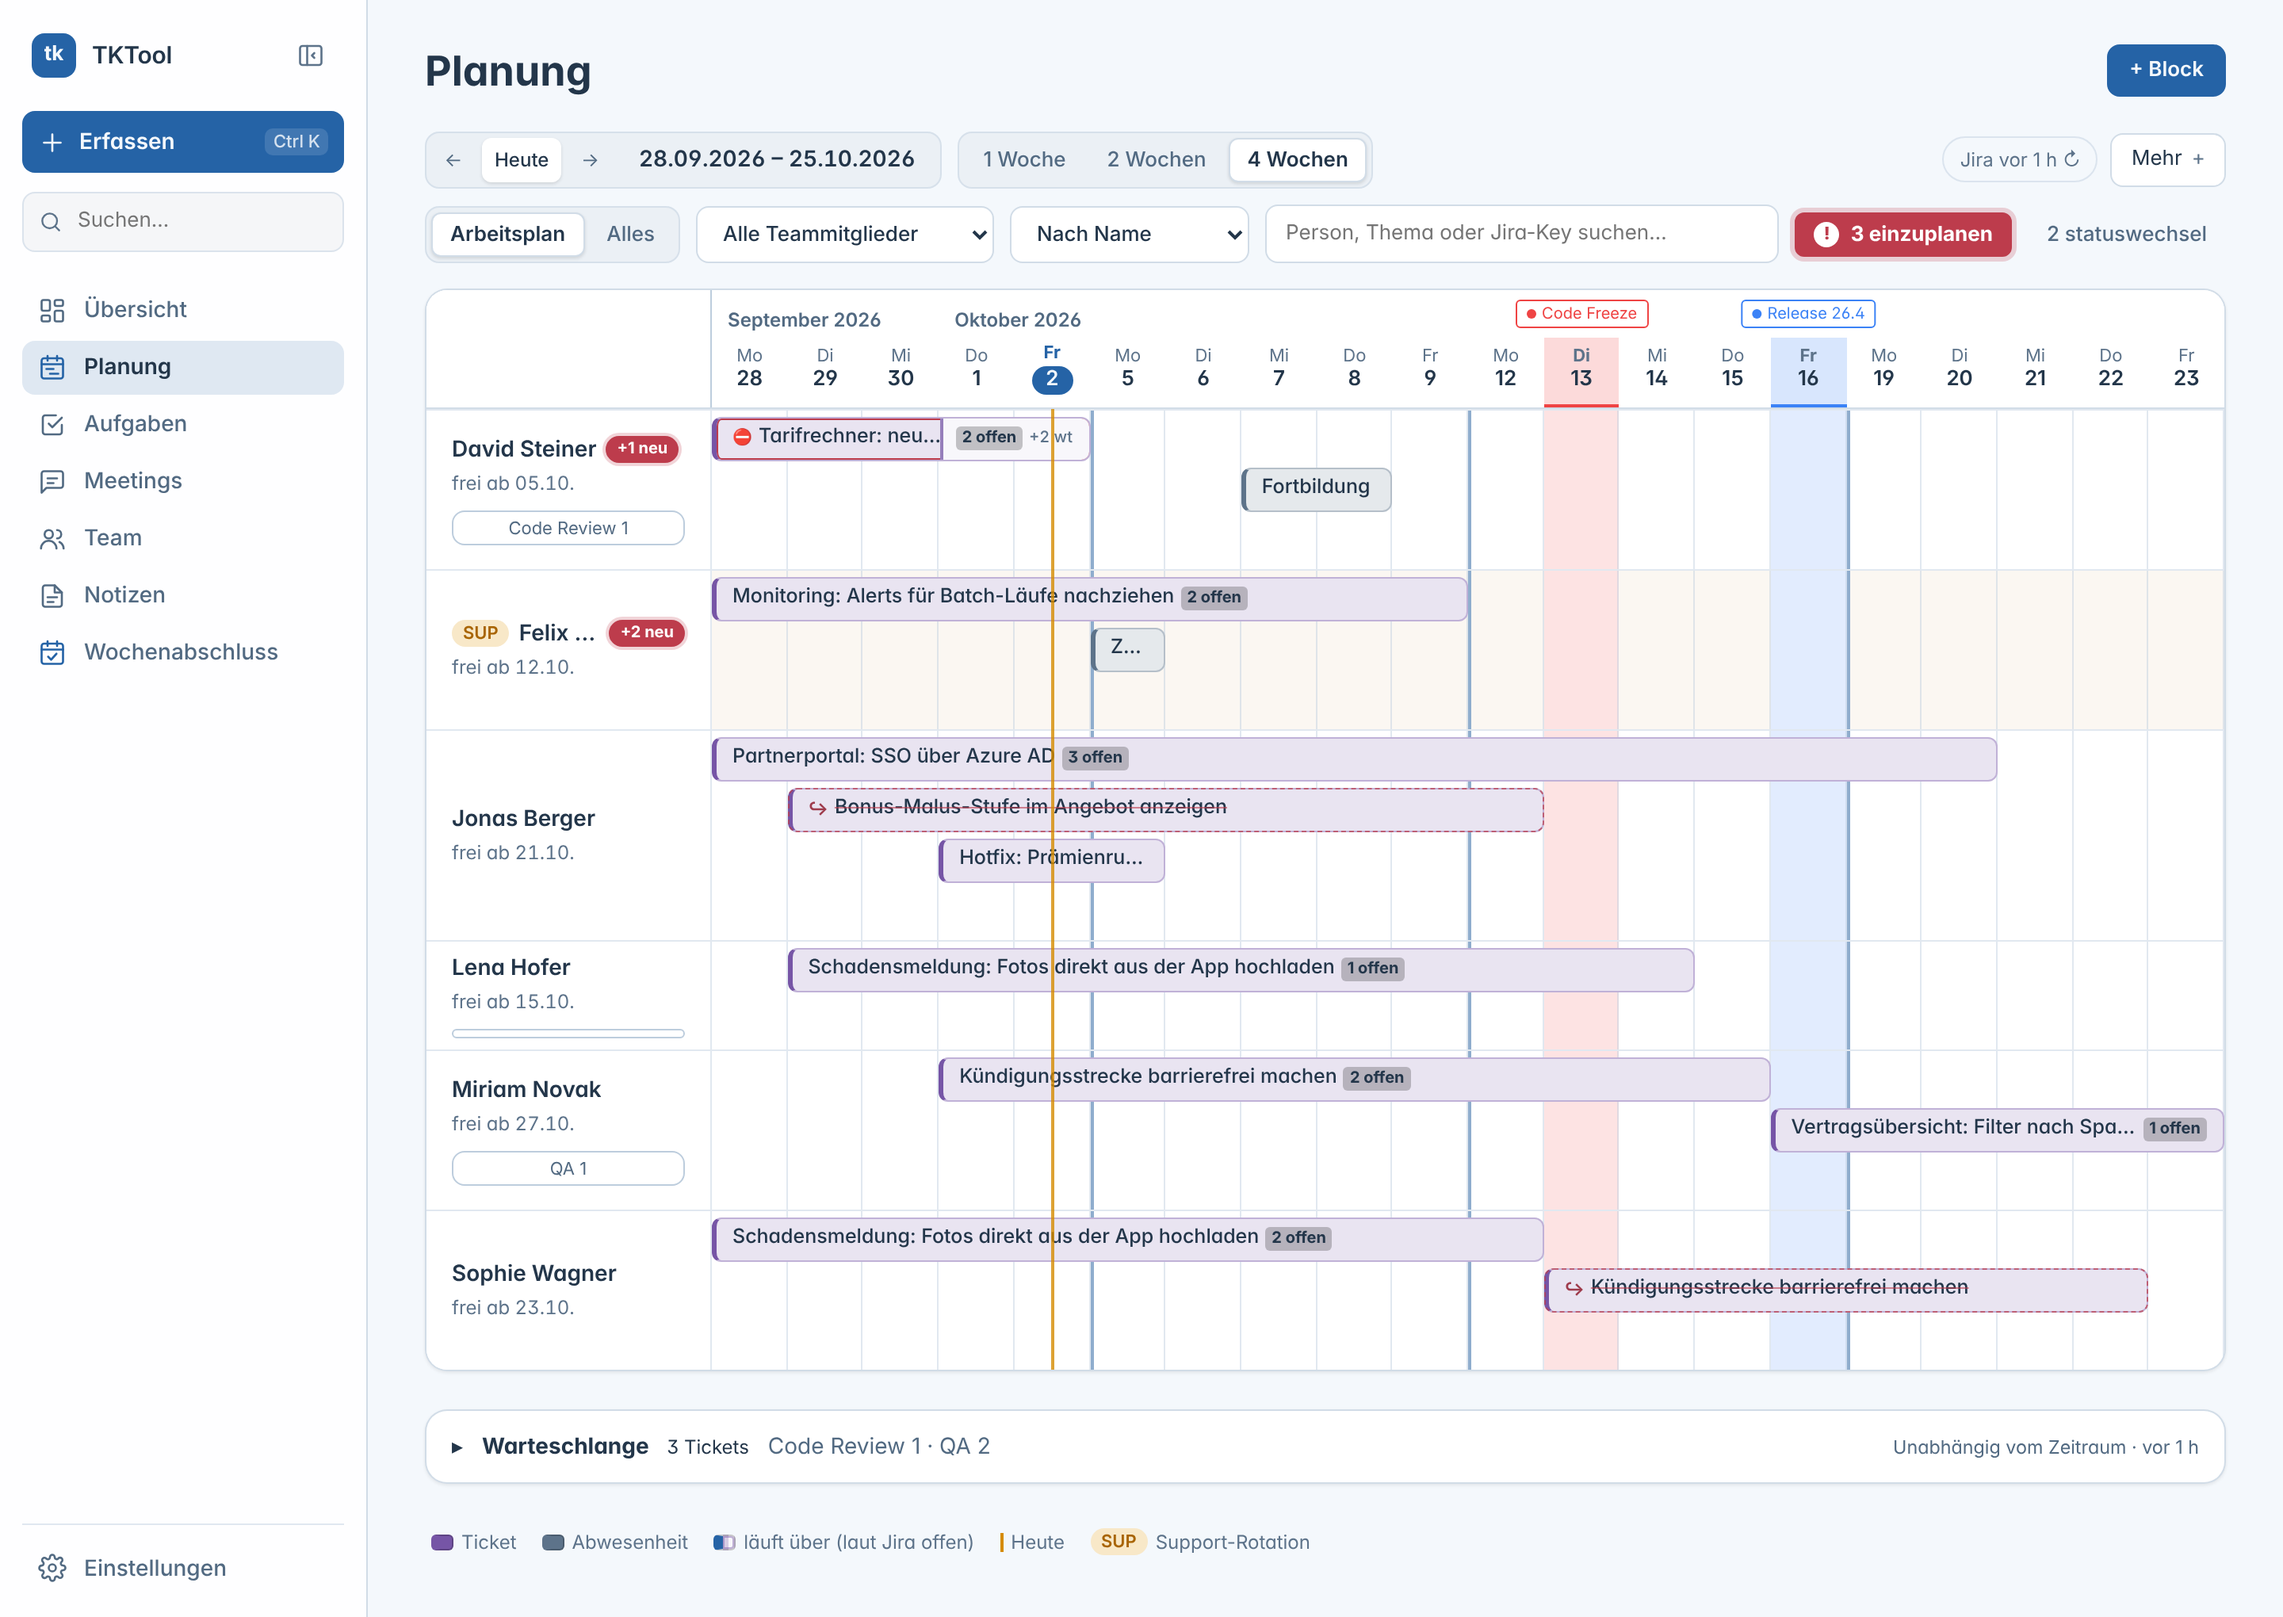
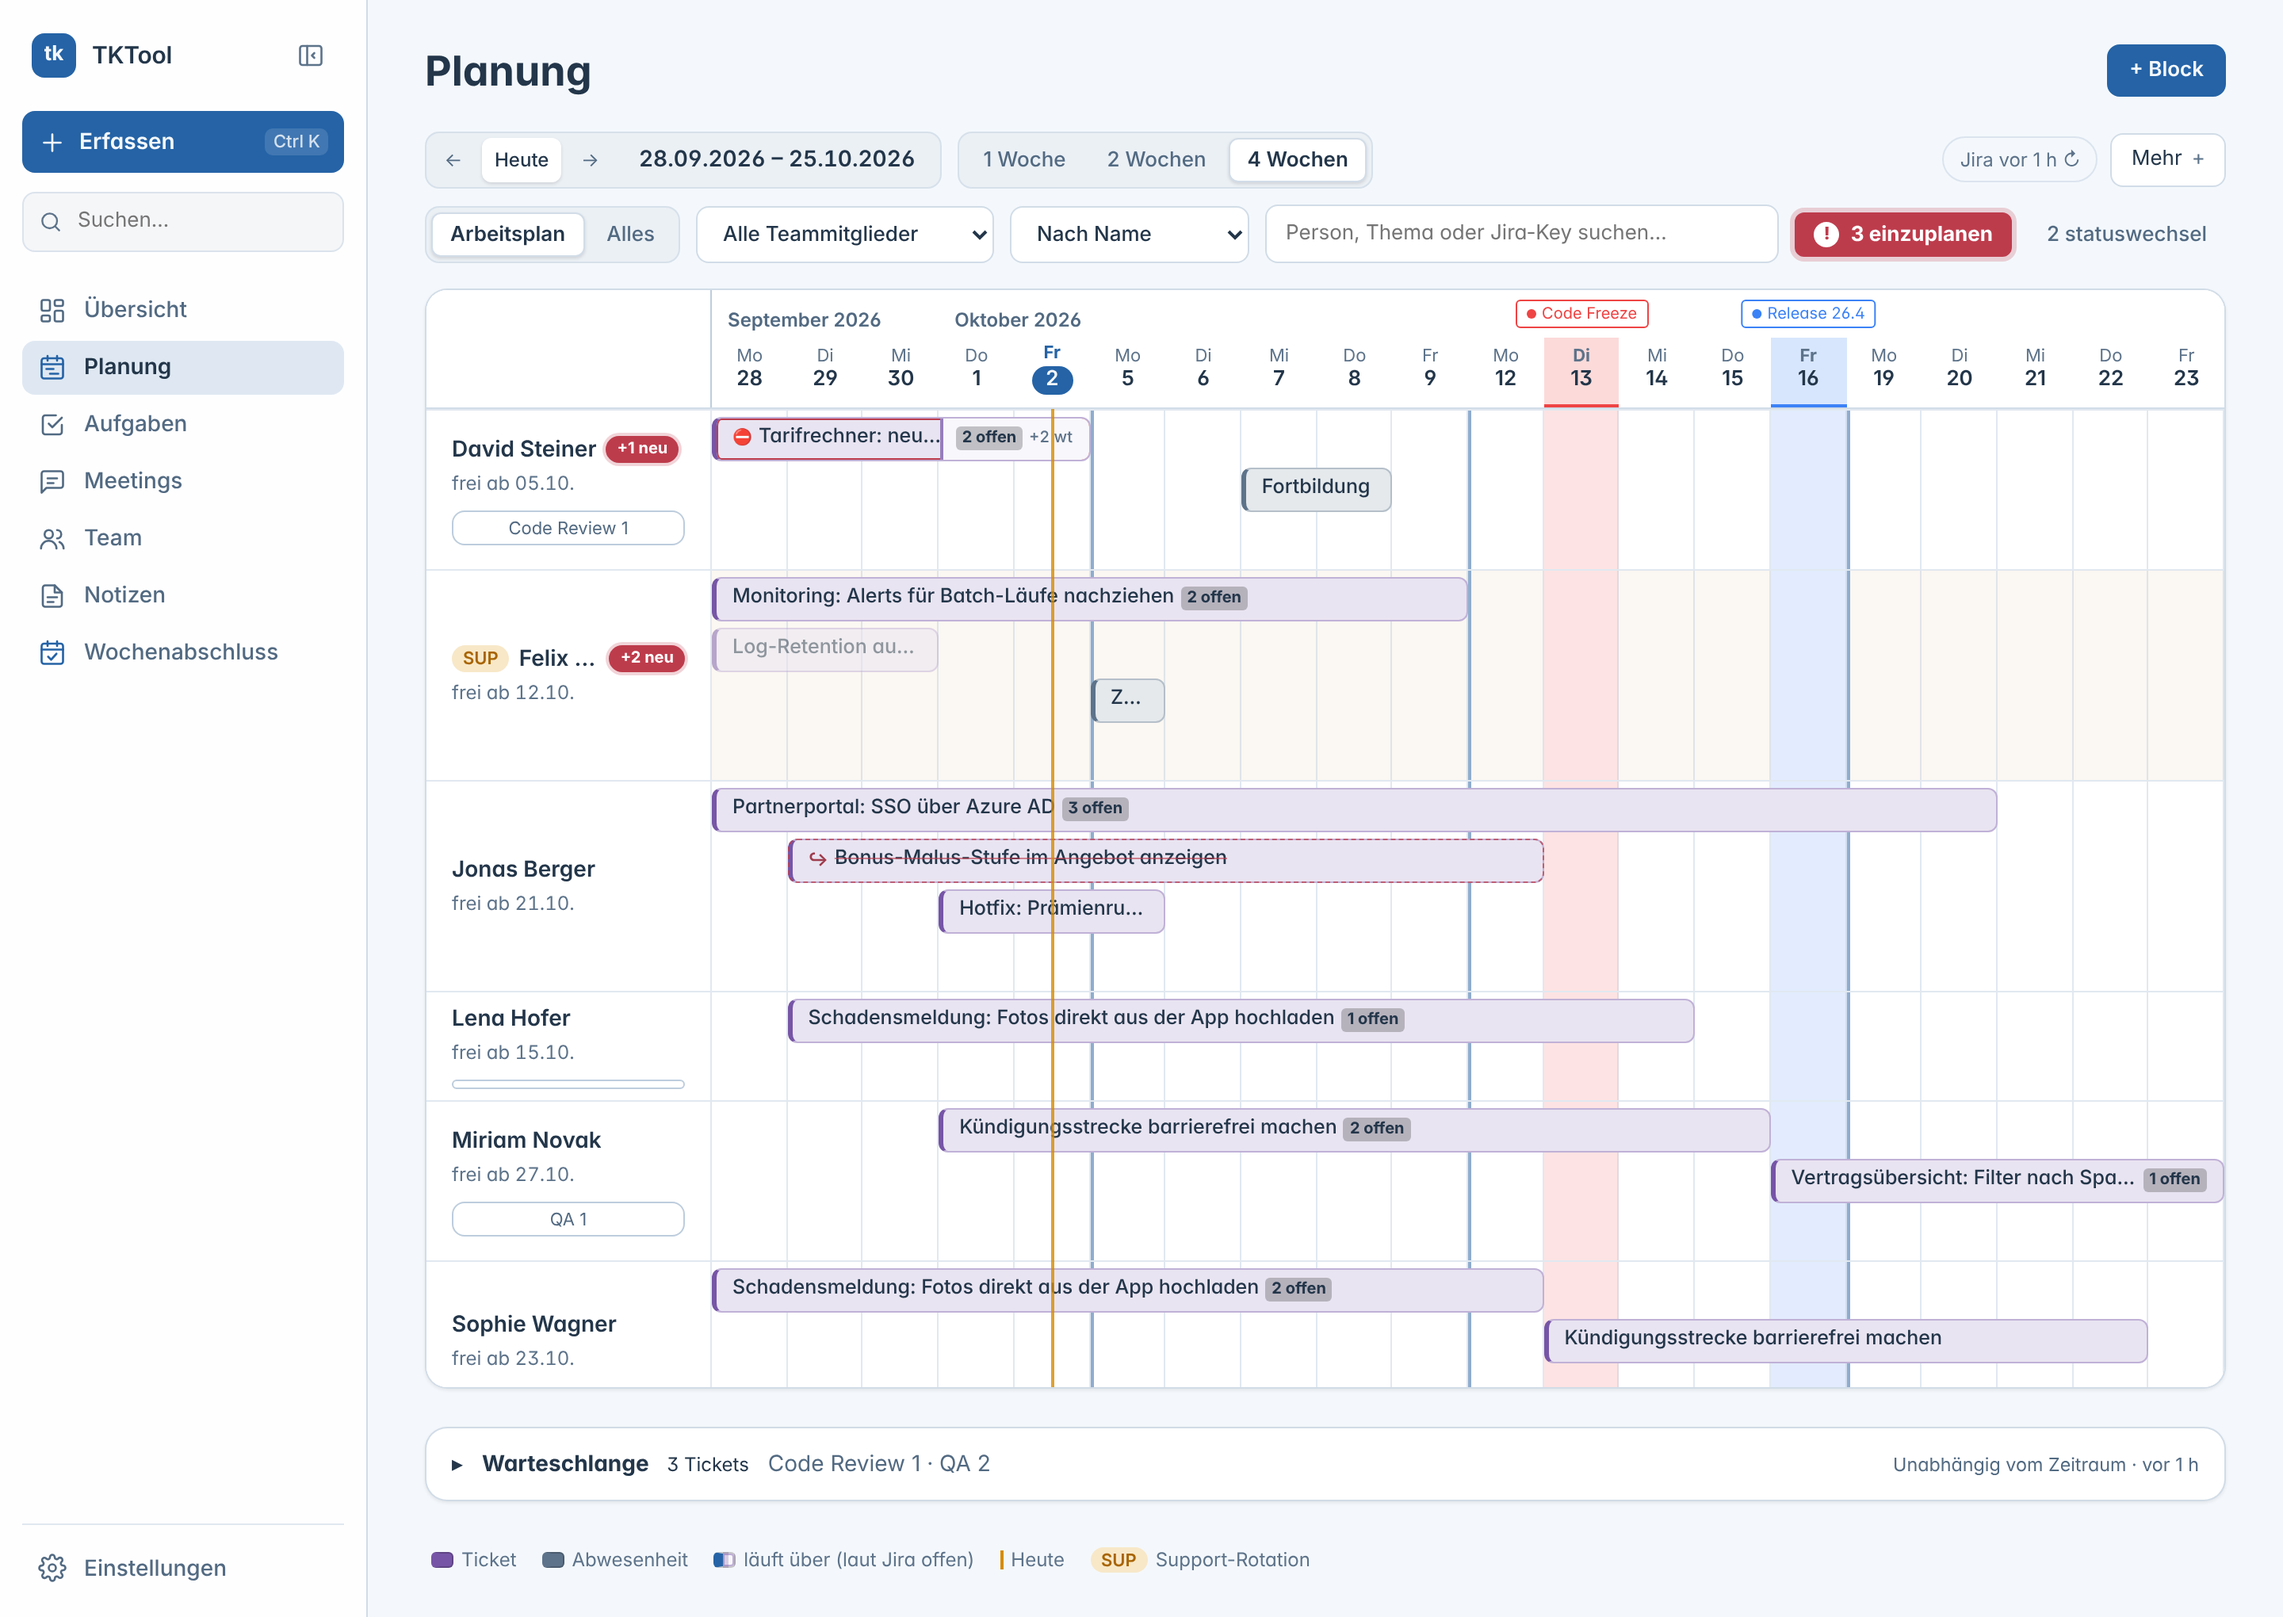
Planung: abgelaufene Blöcke zurücknehmen, Umgehängt nur für laufende
Abgelaufene Blöcke (Ende vor heute, nicht überzogen) werden in der
Planung halb transparent dargestellt. Die Markierung "nicht mehr
zugewiesen" gilt nur noch für Blöcke, die heute laufen: abgelaufene sind
vorbei, kommende sind vorausgeplant und das Ticket liegt oft noch beim
Lead.

Changed region(s): [[0.3125, 0.4015, 1.0, 0.9265], [0.1875, 0.4941, 0.5625, 0.9882], [0.1875, 0.3706, 0.375, 0.4324]]

diff --git a/TKTool.html b/TKTool.html
@@ -7887,6 +7887,11 @@ body[data-theme] .dashboard-sync:hover {
 .standup-block.is-waiting .standup-block-title { color: var(--text-secondary); font-weight: 500; }
 .standup-chip-waiting { border-style: dashed; color: var(--text-muted); }
 
+/* Planung: abgelaufene Bloecke treten zurueck, wie Erledigtes, nur ohne
+   Durchstreichen. Spezifisch genug, um den Uebergabe-Stil zu ueberstimmen. */
+.tl-block.tl-block-past { opacity: 0.5; }
+.tl-block.tl-block-past:hover { opacity: 0.85; }
+
 </style>
 <style data-source="./themes/dark.css">
 body[data-theme="dark"],
@@ -9422,7 +9427,7 @@ body[data-theme="spaceship"] input[type="month"]::-webkit-calendar-picker-indica
 // ============================================================
 // DATA LAYER — File System Access API
 // ============================================================
-const APP_VERSION = '1.0.88';
+const APP_VERSION = '1.0.89';
 const DATA_FILENAME = 'tktool-data.json';
 const JIRA_SYNC_FILENAME = 'jira-tickets.json';
 const JIRA_QUERY_MAX_RESULTS = 100;
@@ -17918,11 +17923,16 @@ function blockWaitingStatus(b) {
 // Bewusst vorsichtig, damit vorausgeplante Bloecke nicht rot werden:
 //  - ohne Snapshot, ohne Account-ID oder unbekanntem Key keine Aussage
 //  - erledigt oder in Uebergabe (QA) ist "wartet", nicht "weg"
-//  - niemandem zugewiesen zaehlt erst, wenn der Block schon begonnen hat
+//  - nur laufende Bloecke: abgelaufene sind vorbei, kommende vorausgeplant
 // Gelesen wird die rohe Ticketliste, nicht die gefilterte: ein Ticket in
 // einem ausgeblendeten Status gehoert der Person trotzdem noch.
 function blockJiraElsewhere(b) {
   if (!jiraSyncData || !b || isAbsenceBlock(b) || b.done) return null;
+  // Abgelaufene Bloecke sind Geschichte: dass das Ticket danach weitergezogen
+  // ist, ist normal und kein Hinweis mehr wert.
+  // Kommende ebenso: wer vorausplant, hat das Ticket oft noch gar nicht.
+  const today = todayStr();
+  if (isBlockParked(b) || b.end < today || b.start > today) return null;
   const key = blockAuftragKey(b);
   const person = key && data.persons.find(p => p.id === b.personId);
   const accountId = person && person.jiraAccountId ? person.jiraAccountId.trim() : '';
@@ -17933,7 +17943,6 @@ function blockJiraElsewhere(b) {
   if (auftrag.assignee === accountId) return null;
   const own = (jiraSyncData.assignees || {})[accountId] || [];
   if (own.some(t => t.statusCategory !== 'done' && jiraAuftragKey(t.key) === key)) return null;
-  if (!auftrag.assignee && !(b.start && b.start <= todayStr())) return null;
   const owner = auftrag.assignee && data.persons.find(p => (p.jiraAccountId || '').trim() === auftrag.assignee);
   return {
     assignee: auftrag.assignee || null,
@@ -18128,6 +18137,9 @@ function renderTimeline({ personIds, startDate, endDate, options = {} }) {
       if (viewState.planungHighlightBlockId === b.id) classes.push('tl-block-highlight');
       if (sIdx === eIdx) classes.push('tl-block-single');
       if (b.state === 'done') classes.push('tl-block-done');
+      // Vorbei: tritt zurueck. Ueberzogene Bloecke enden per blockView heute
+      // und bleiben damit voll sichtbar.
+      else if (!isBlockParked(b) && b.end < todayStr()) classes.push('tl-block-past');
       if (b.state === 'waiting') classes.push('tl-block-handover-on');
       if (b.overrun) classes.push('tl-block-overrun');
       if (isBlockBlocked(b) && b.state !== 'done') classes.push('tl-block-blocked');

diff --git a/js/planung.js b/js/planung.js
@@ -291,11 +291,16 @@ function blockWaitingStatus(b) {
 // Bewusst vorsichtig, damit vorausgeplante Bloecke nicht rot werden:
 //  - ohne Snapshot, ohne Account-ID oder unbekanntem Key keine Aussage
 //  - erledigt oder in Uebergabe (QA) ist "wartet", nicht "weg"
-//  - niemandem zugewiesen zaehlt erst, wenn der Block schon begonnen hat
+//  - nur laufende Bloecke: abgelaufene sind vorbei, kommende vorausgeplant
 // Gelesen wird die rohe Ticketliste, nicht die gefilterte: ein Ticket in
 // einem ausgeblendeten Status gehoert der Person trotzdem noch.
 function blockJiraElsewhere(b) {
   if (!jiraSyncData || !b || isAbsenceBlock(b) || b.done) return null;
+  // Abgelaufene Bloecke sind Geschichte: dass das Ticket danach weitergezogen
+  // ist, ist normal und kein Hinweis mehr wert.
+  // Kommende ebenso: wer vorausplant, hat das Ticket oft noch gar nicht.
+  const today = todayStr();
+  if (isBlockParked(b) || b.end < today || b.start > today) return null;
   const key = blockAuftragKey(b);
   const person = key && data.persons.find(p => p.id === b.personId);
   const accountId = person && person.jiraAccountId ? person.jiraAccountId.trim() : '';
@@ -306,7 +311,6 @@ function blockJiraElsewhere(b) {
   if (auftrag.assignee === accountId) return null;
   const own = (jiraSyncData.assignees || {})[accountId] || [];
   if (own.some(t => t.statusCategory !== 'done' && jiraAuftragKey(t.key) === key)) return null;
-  if (!auftrag.assignee && !(b.start && b.start <= todayStr())) return null;
   const owner = auftrag.assignee && data.persons.find(p => (p.jiraAccountId || '').trim() === auftrag.assignee);
   return {
     assignee: auftrag.assignee || null,
@@ -501,6 +505,9 @@ function renderTimeline({ personIds, startDate, endDate, options = {} }) {
       if (viewState.planungHighlightBlockId === b.id) classes.push('tl-block-highlight');
       if (sIdx === eIdx) classes.push('tl-block-single');
       if (b.state === 'done') classes.push('tl-block-done');
+      // Vorbei: tritt zurueck. Ueberzogene Bloecke enden per blockView heute
+      // und bleiben damit voll sichtbar.
+      else if (!isBlockParked(b) && b.end < todayStr()) classes.push('tl-block-past');
       if (b.state === 'waiting') classes.push('tl-block-handover-on');
       if (b.overrun) classes.push('tl-block-overrun');
       if (isBlockBlocked(b) && b.state !== 'done') classes.push('tl-block-blocked');

diff --git a/styles.css b/styles.css
@@ -7802,3 +7802,8 @@ body[data-theme] .dashboard-sync:hover {
 .standup-block.is-waiting:focus-within { opacity: 1; }
 .standup-block.is-waiting .standup-block-title { color: var(--text-secondary); font-weight: 500; }
 .standup-chip-waiting { border-style: dashed; color: var(--text-muted); }
+
+/* Planung: abgelaufene Bloecke treten zurueck, wie Erledigtes, nur ohne
+   Durchstreichen. Spezifisch genug, um den Uebergabe-Stil zu ueberstimmen. */
+.tl-block.tl-block-past { opacity: 0.5; }
+.tl-block.tl-block-past:hover { opacity: 0.85; }

diff --git a/scripts/screenshot-mock-data.js b/scripts/screenshot-mock-data.js
@@ -165,6 +165,8 @@ function buildMockData(TODAY) {
   block('miriam', 'POL-425', wd(-6), wd(1));
   away('felix', 'Zeitausgleich', wd(1), wd(1));
   block('felix', 'OPS-77', wd(-6), wd(5));
+  // Abgelaufen: tritt in der Planung zurueck
+  block('felix', 'OPS-70', wd(-10), wd(-2), { label: 'Log-Retention auf 30 Tage' });
   block('sophie', 'POL-430', wd(7), wd(14));
   away('sophie', 'Urlaub', wd(22), wd(26));
 

diff --git a/js/data.js b/js/data.js
@@ -1,7 +1,7 @@
 // ============================================================
 // DATA LAYER — File System Access API
 // ============================================================
-const APP_VERSION = '1.0.88';
+const APP_VERSION = '1.0.89';
 const DATA_FILENAME = 'tktool-data.json';
 const JIRA_SYNC_FILENAME = 'jira-tickets.json';
 const JIRA_QUERY_MAX_RESULTS = 100;
